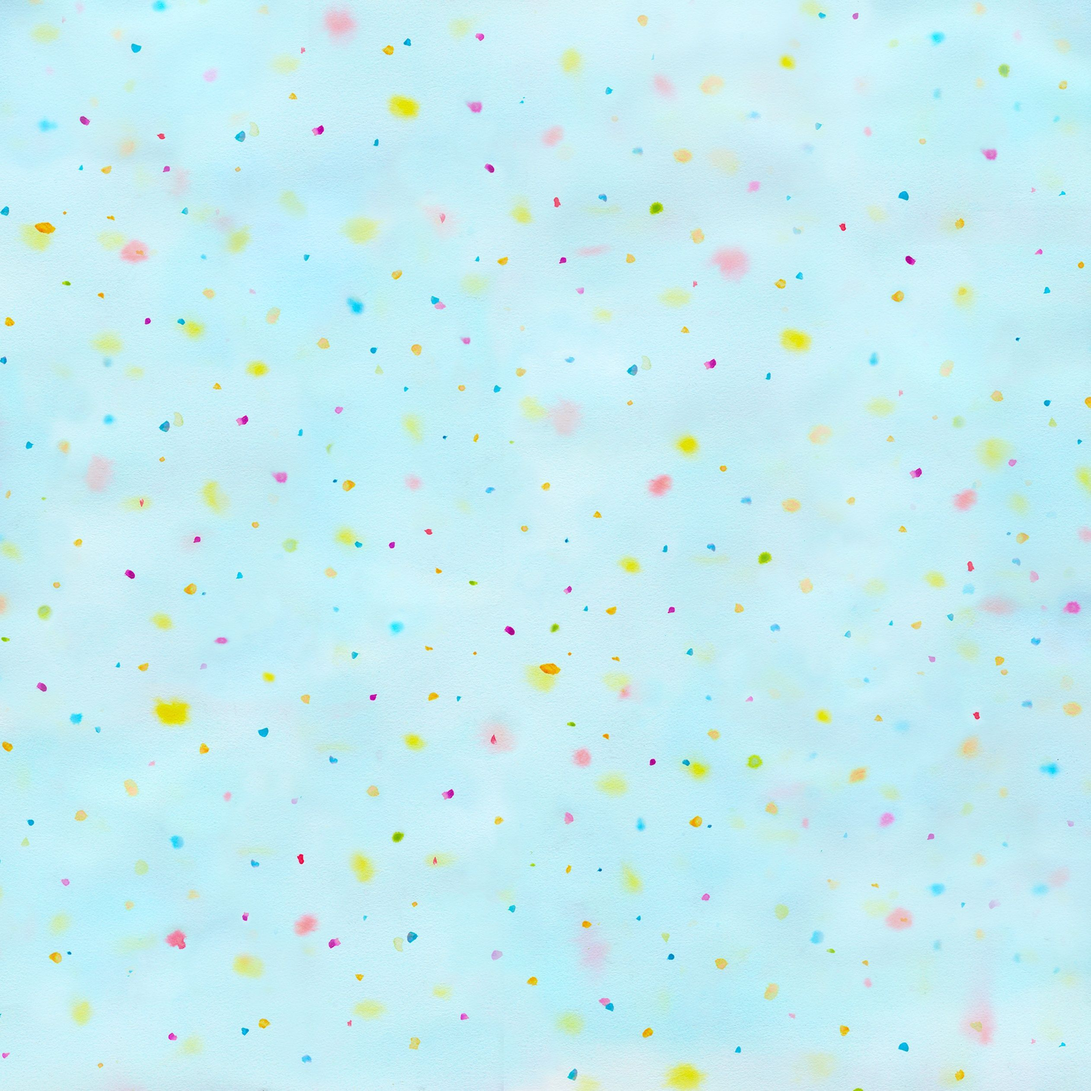
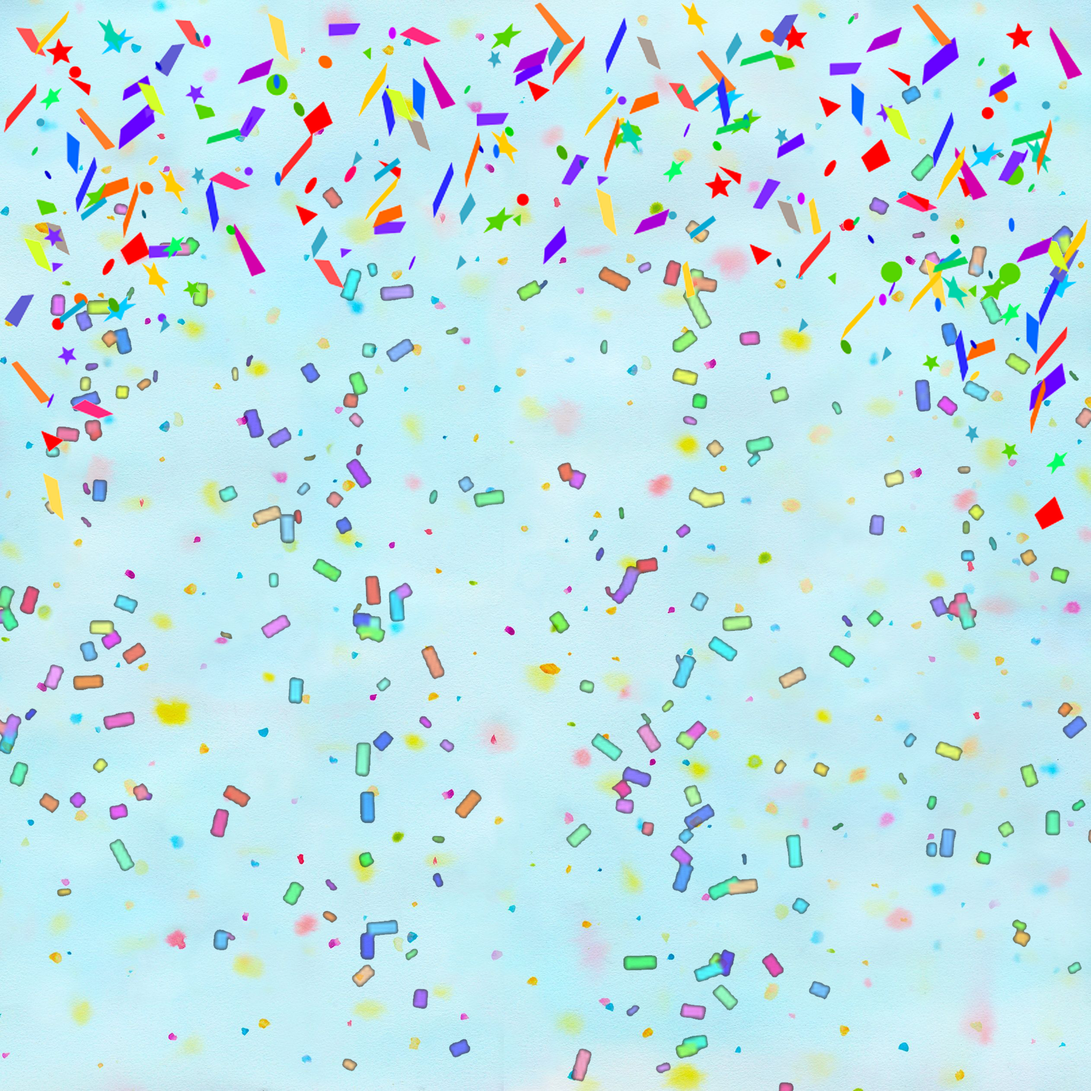
Second Commit

diff --git a/index.html b/index.html
@@ -21,8 +21,8 @@
 
 			<!-- Intro -->
 			<div id="intro">
-				<img src="images/keshav.png" alt="" style="width:500px;height:500px;" />
-				<p>A  showcase of my projects and my abilities.</a>.</p>
+				<img src="images/hbd6.jpg" alt="" style="width:500px;height:500px;" />
+				<p>Many many happy returns of the day.</a>.</p>
 				<ul class="actions">
 					<li><a href="#header" class="button icon solid solo fa-arrow-down scrolly">Continue</a></li>
 				</ul>
@@ -30,21 +30,8 @@
 
 			<!-- Header -->
 			<header id="header">
-				<a href="index.html" class="logo">Keshav</a>
+				<a href="index.html" class="logo">Priyanka</a>
 			</header>
-
-			<!-- Nav -->
-			<nav id="nav">
-				<ul class="links">
-					<li class="active"><a href="index.html">Keshav's Portfolio</a></li>
-				</ul>
-				<ul class="icons">
-					<li><a href="https://twitter.com/kassassin99" class="icon brands fa-twitter"><span class="label">Twitter</span></a></li>
-					<li><a href="https://www.linkedin.com/in/keshav1994/" class="icon brands fa-linkedin"><span class="label">Facebook</span></a></li>
-					<li><a href="https://www.instagram.com/keshavsharma1234/" class="icon brands fa-instagram"><span class="label">Instagram</span></a></li>
-					<li><a href="https://github.com/kassassin599" class="icon brands fa-github"><span class="label">GitHub</span></a></li>
-				</ul>
-			</nav>
 
 			<!-- Main -->
 			<div id="main">
@@ -52,24 +39,20 @@
 				<!-- Featured Post -->
 				<article class="post featured">
 					<header class="major">
-						<span class="date">December 7, 2020</span>
+						<span class="date">June 30, 2021</span>
 						<h2>
 							<a href="#">
-								Gameplay enginner<br />
-								Unity 3d
+								Happy Birthday<br />
+								Priyu
 							</a>
 						</h2>
 						<p>
-							Completed B.Tech in Computer Science Engineering(2013-17).
-							Always been interested in computers and video games and how do they work.
-							Now, it's my time to give back to the tech community,
-							what i have learned over these years and my services.
-							Games will always be part of my life and i look forward to help make some.
+							A friend like you is more priceless than the most beautiful diamond. You are not only strong and wise, but kind and thoughtful as well. Your birthday is the perfect opportunity to show you how much I care and how grateful I am to have you in my life. Happy birthday!
 						</p>
 					</header>
-					<a href="https://play.google.com/store/apps/details?id=com.SK.quaRUNtineAdventure" class="image main"><img src="images/26.png" alt="" /></a>
+					<a href="https://www.instagram.com/priyankasoni306/" class="image main"><img src="images/26.png" alt="" /></a>
 					<ul class="actions special">
-						<li><a href="https://play.google.com/store/apps/details?id=com.SK.quaRUNtineAdventure" class="button large">Check it out</a></li>
+						<li><a href="https://www.instagram.com/priyankasoni306/" class="button large">26 years filled with fun & happiness</a></li>
 					</ul>
 				</article>
 
@@ -84,10 +67,10 @@
 								</a>
 							</h2>
 						</header>
-						<a href="https://play.google.com/store/apps/details?id=com.gtgg.kfdgame&hl=en_IN&gl=US" class="image fit"><img src="images/pic02.jpg" alt="" /></a>
+						<a href="https://www.instagram.com/priyankasoni306/" class="image fit"><img src="images/pic02.jpg" alt="" /></a>
 						<p>Chhota Bheem is now packed as an action adventure game in which the characters are lined up to battle against each other. The Kung Fu Game is a sheer display of fury as Chhota Bheem unravels his journey in the Story Mode Criteria of the game.</p>
 						<ul class="actions special">
-							<li><a href="https://play.google.com/store/apps/details?id=com.gtgg.kfdgame&hl=en_IN&gl=US" class="button">PlayStore</a></li>
+							<li><a href="https://www.instagram.com/priyankasoni306/" class="button">PlayStore</a></li>
 						</ul>
 					</article>
 					<article>
@@ -99,10 +82,10 @@
 								</a>
 							</h2>
 						</header>
-						<a href="https://play.google.com/store/apps/details?id=com.gamitronics.IOCLCar&hl=en&gl=US" class="image fit"><img src="images/pic03.jpg" alt="" /></a>
+						<a href="https://www.instagram.com/priyankasoni306/" class="image fit"><img src="images/pic03.jpg" alt="" /></a>
 						<p>Servo Drive, a taxi driving game which encourages responsible driving while providing a fast paced engaging game. Pick passengers based on the distance, drop them in time while keeping an eye on fuel efficiency, right fuel usage and speed.</p>
 						<ul class="actions special">
-							<li><a href="https://play.google.com/store/apps/details?id=com.gamitronics.IOCLCar&hl=en&gl=US" class="button">PlayStore</a></li>
+							<li><a href="https://www.instagram.com/priyankasoni306/" class="button">PlayStore</a></li>
 						</ul>
 					</article>
 
@@ -116,25 +99,10 @@
 			<footer id="footer">
 
 				<section class="split contact">
-					<section class="alt">
-						<h3>Address</h3>
-						<p>Kota, Rajasthan</p>
-					</section>
-					<section>
-						<h3>Phone</h3>
-						<p><a href="#">+91 9828191499</a></p>
-					</section>
-					<section>
-						<h3>Email</h3>
-						<p><a href="#">keshavsharma021094@gmail.com</a></p>
-					</section>
 					<section>
 						<h3>Social</h3>
 						<ul class="icons alt">
-							<li><a href="https://twitter.com/kassassin99" class="icon brands fa-twitter"><span class="label">Twitter</span></a></li>
-							<li><a href="https://www.linkedin.com/in/keshav1994/" class="icon brands fa-linkedin"><span class="label">Facebook</span></a></li>
-							<li><a href="https://www.instagram.com/keshavsharma1234/" class="icon brands fa-instagram"><span class="label">Instagram</span></a></li>
-							<li><a href="https://github.com/kassassin599" class="icon brands fa-github"><span class="label">GitHub</span></a></li>
+							<li><a href="https://www.instagram.com/priyankasoni306/" class="icon brands fa-instagram"><span class="label">Instagram</span></a></li>
 						</ul>
 					</section>
 				</section>

diff --git a/assets/css/main.css b/assets/css/main.css
@@ -3755,14 +3755,14 @@ input, select, textarea {
 
 /* Main */
 
-	#main {
-		background-color: #ffffff;
-		position: relative;
-		margin: 0 auto;
-		width: calc(100% - 4rem);
-		max-width: 72rem;
-		z-index: 2;
-	}
+#main {
+	background-color: #9eeaf9;
+	position: relative;
+	margin: 0 auto;
+	width: calc(100% - 4rem);
+	max-width: 72rem;
+	z-index: 2;
+}
 
 		#main > * {
 			padding: 4rem 4rem 2rem 4rem ;
